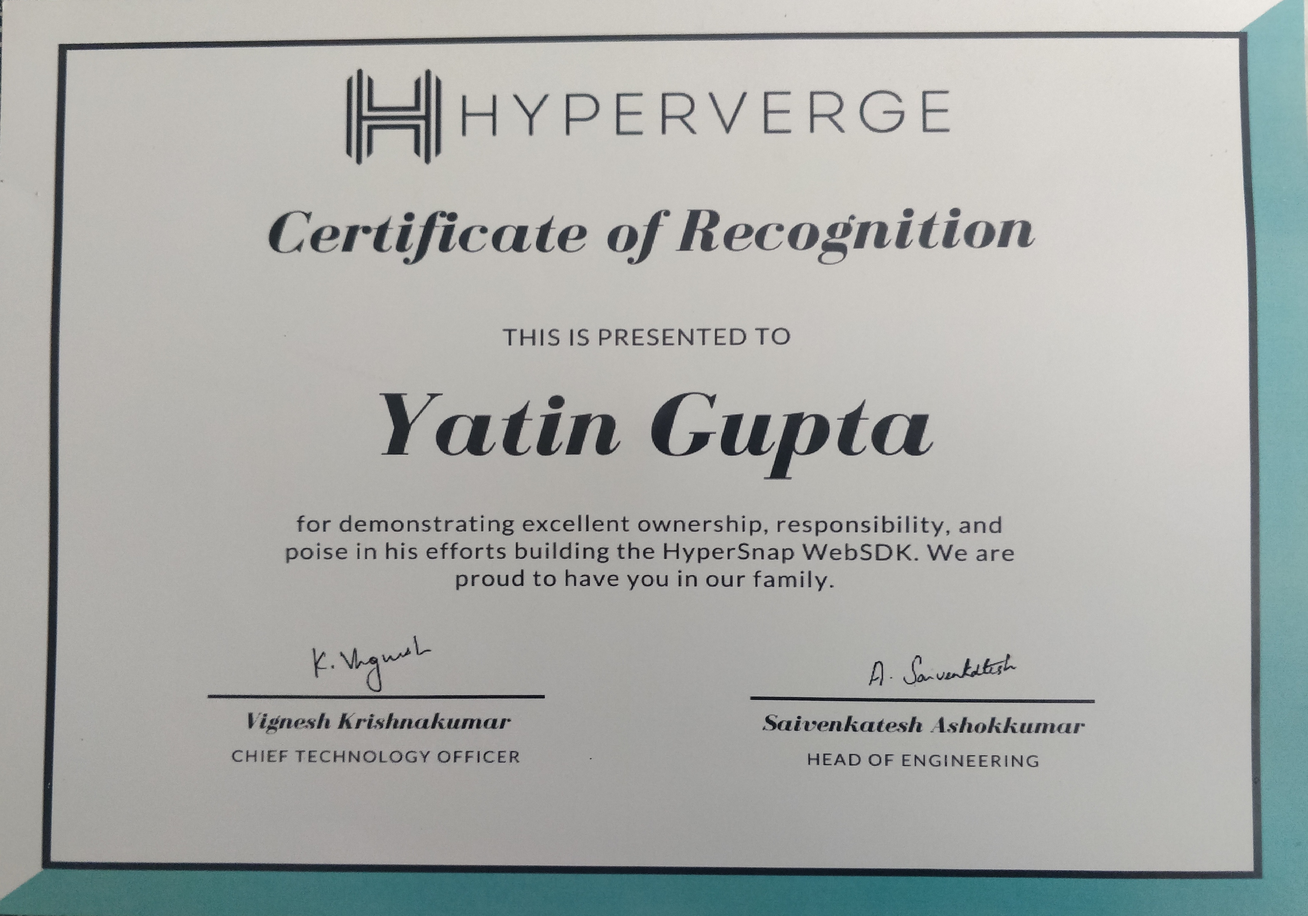
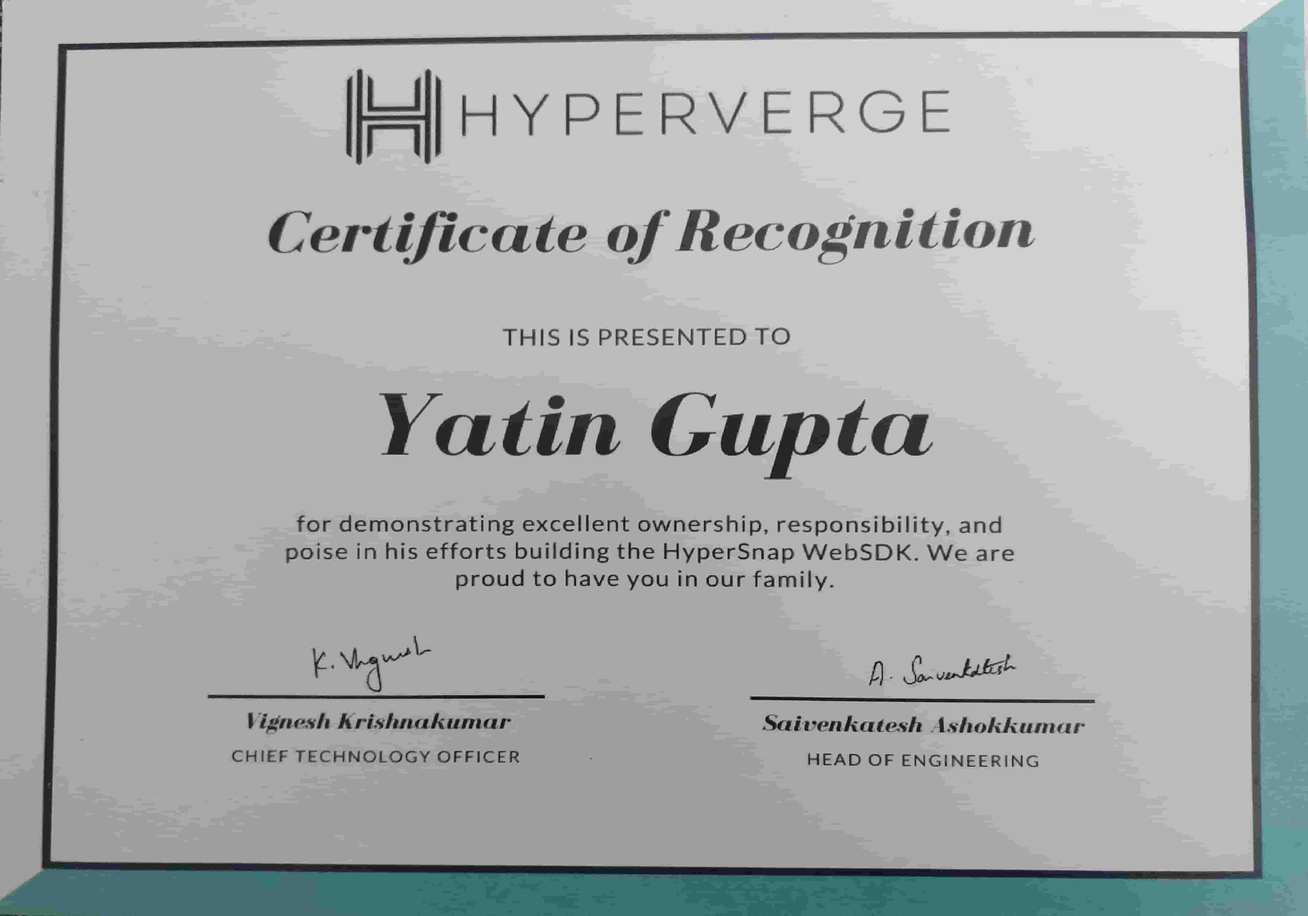
optimise images, delete unused images

diff --git a/index.html b/index.html
@@ -30,11 +30,6 @@
 
     gtag('config', 'UA-119972961-1');
   </script>
-  <!-- <style type="text/css">
-  body{
-    background-image: url("assets/img/Space-background.jpg");
-  }
-</style> -->
 </head>
 
 <body>
@@ -531,7 +526,7 @@
         <div class="row">
           <div class="col-md-6 mx-auto">
             <div class="card border-0"><img class="card-img-top w-100 d-block card-img-top scale-on-hover"
-                src="assets/img/lor.png" alt="Card Image" loading="lazy">
+                src="assets/img/lor.webp" alt="Card Image" loading="lazy">
               <div class="card-body">
                 <h6><strong>Letter of recommendation: Co-Founder and Head of Engineering at HyperVerge</strong><br />
                 </h6>
@@ -542,7 +537,7 @@
         <div class="row">
           <div class="col-md-6">
             <div class="card border-0"><img class="card-img-top w-100 d-block card-img-top scale-on-hover"
-                src="assets/img/aws-certified-solutions-architect-associate.png" alt="Card Image" loading="lazy">
+                src="assets/img/aws-certified-solutions-architect-associate.webp" alt="Card Image" loading="lazy">
               <div class="card-body">
                 <h6><strong>Certified AWS Solutions Architect Associate</strong><br /></h6>
                 <a href="https://www.credly.com/badges/11504a37-bb71-47a6-8108-7173de4474a3/public_url"
@@ -699,7 +694,7 @@
           </div>
           <div class="col-md-6 col-lg-4">
             <div class="card border-0"><img class="card-img-top w-100 d-block card-img-top scale-on-hover"
-                src="assets/img/Booking%20System.png" alt="Card Image" loading="lazy">
+                src="assets/img/Booking%20System.webp" alt="Card Image" loading="lazy">
               <div class="card-body">
                 <h6>Booking System</h6>
                 <p class="text-muted card-text">A complete booking system made for my father's dry cleaning shop.
@@ -766,7 +761,7 @@
             </div>
             <div class="col-md-6">
               <div class="card border-0"><img class="card-img-top w-100 d-block card-img-top scale-on-hover"
-                  src="assets/img/android%20development.jpeg" alt="Card Image" loading="lazy">
+                  src="assets/img/android%20development.webp" alt="Card Image" loading="lazy">
                 <div class="card-body">
                   <h6><strong>Android Projects</strong><br /></h6>
                   <p class="text-muted card-text">A collection of all the android applications I made.</p>

diff --git a/assets/css/index.css b/assets/css/index.css
@@ -41,7 +41,7 @@ header,
 }
 
 #intro {
-    background: url("https://github.com/YatinGupta777/Portfolio-2.0-/blob/master/assets/img/me.JPG?raw=true")no-repeat center;
+    background: url("../img/me.webp")no-repeat center;
     -webkit-background-size: cover;
     -moz-background-size: cover;
     -o-background-size: cover;
